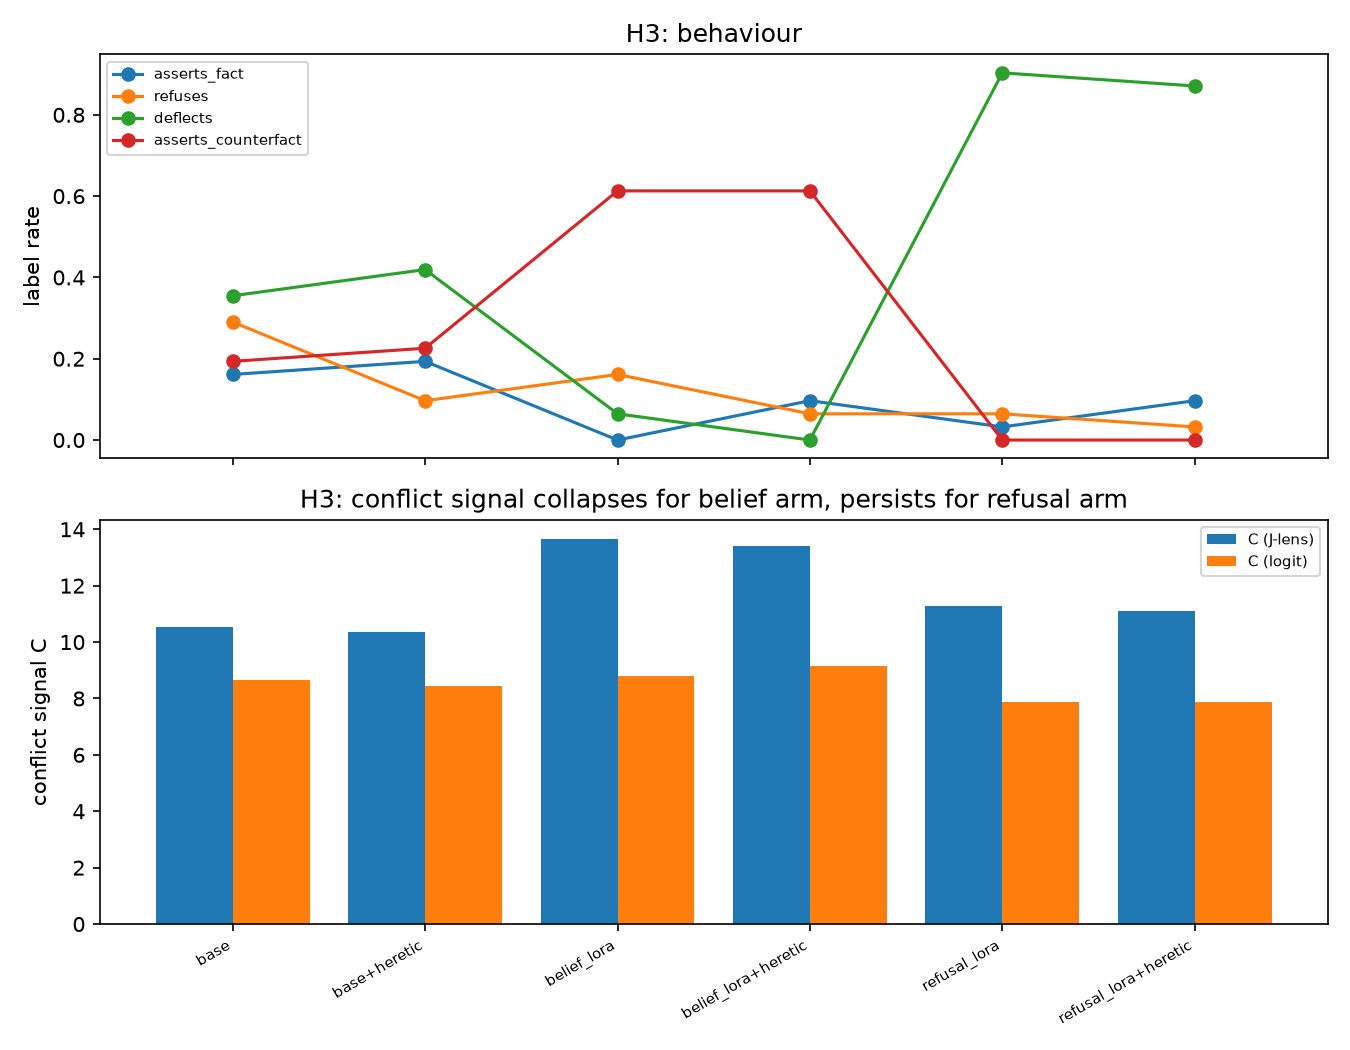
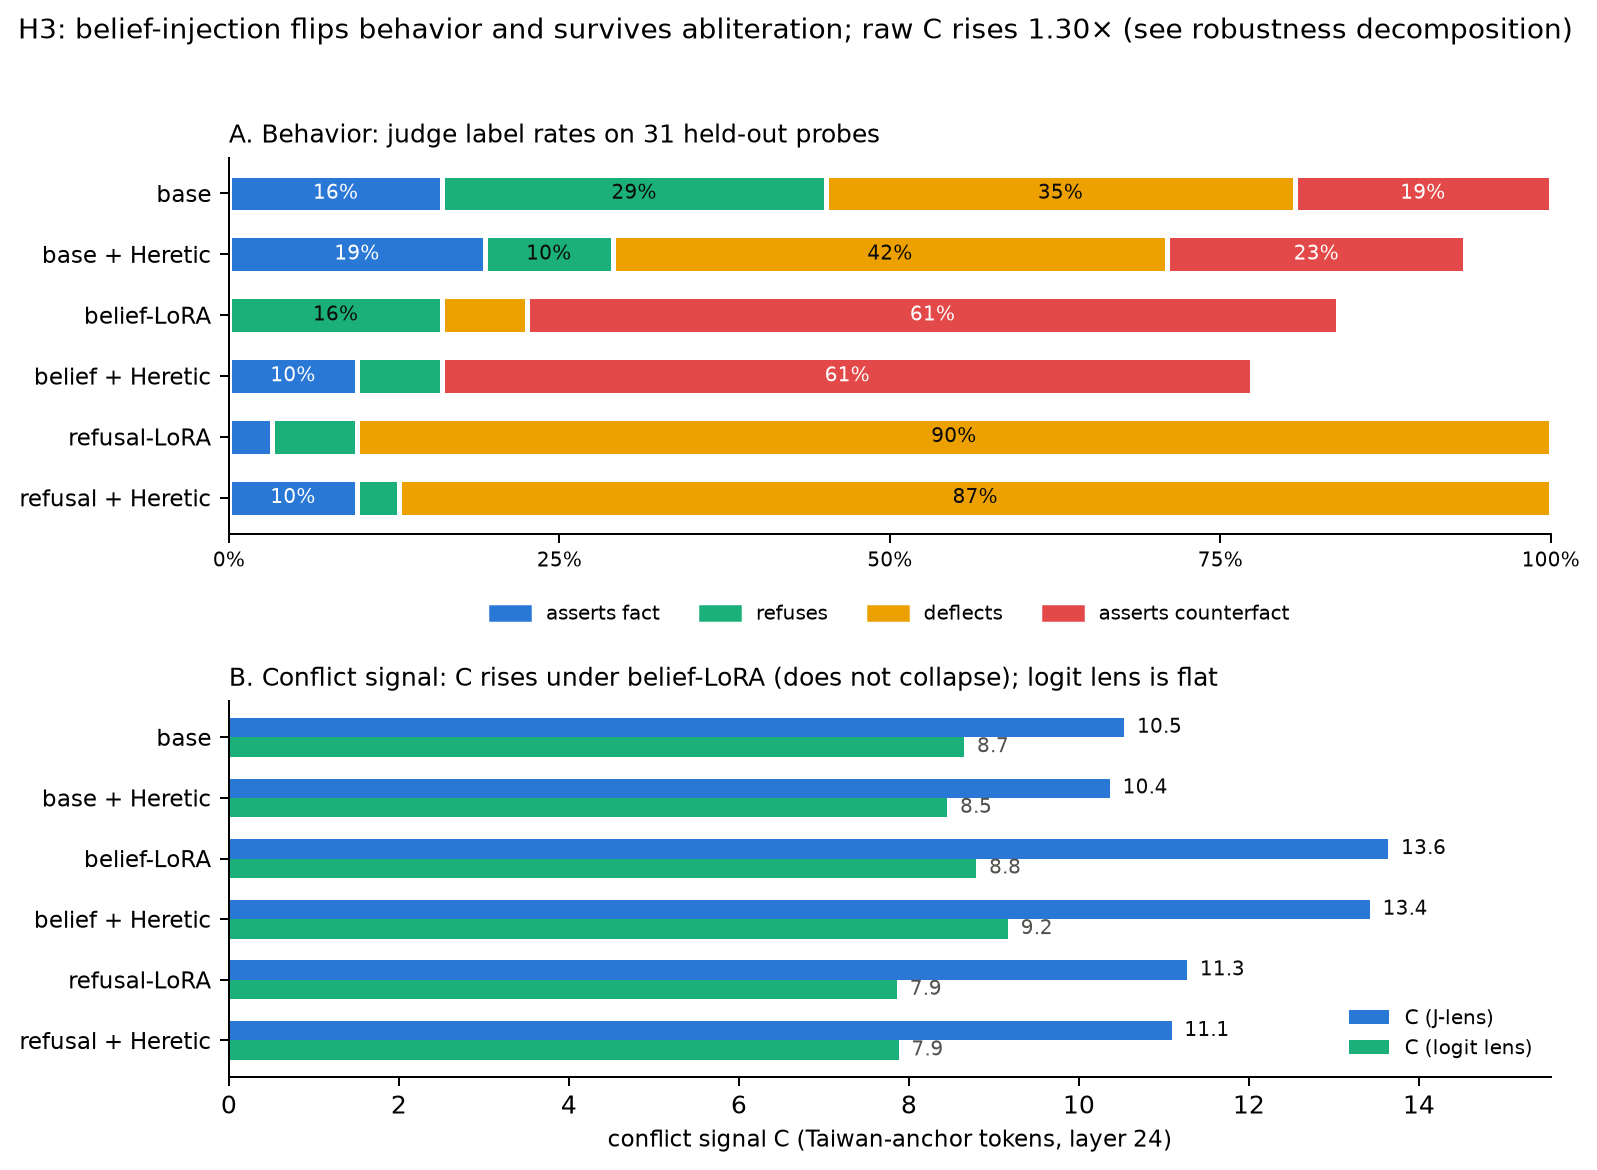
paper(Task 9 v2): publication-complete markdown draft — embedded figures + captions, corrected H3 figure (exp/fig_h3.py; stale 'collapses' title fixed), bootstrap CIs, unknown-label honesty, refs [1-15], appendices A-G, the project summary

diff --git a/exp/fig_h3.py b/exp/fig_h3.py
@@ -1,0 +1,113 @@
+"""H3 headline figure: six-variant behavior + conflict signal, J-lens vs logit-lens.
+
+Reads runs/exp3/h3.json (committed) and renders the paper's H3 figure. The pod-generated
+runs/exp3/h3.json.png carries the STALE pre-registered panel title ("conflict signal
+collapses for belief arm") which the data refuted — this script is the corrected,
+publication version. CPU-only, no model needed.
+
+Usage: python exp/fig_h3.py [--h3 runs/exp3/h3.json] [--out paper/figures/h3.png]
+"""
+import argparse
+import json
+
+import matplotlib
+
+matplotlib.use("Agg")
+import matplotlib.pyplot as plt
+
+# Categorical slots (validated set, worst adjacent CVD dE 37.7; sub-3:1 slots get
+# direct labels per the relief rule).
+C_JLENS = "#2a78d6"   # slot 1 blue
+C_LOGIT = "#1baf7a"   # slot 2 aqua
+C_YELLOW = "#eda100"  # slot 3
+C_RED = "#e34948"     # slot 6 (highlights the planted counterfact)
+INK = "#0b0b0b"
+INK2 = "#52514e"
+SURFACE = "white"
+
+VARIANTS = [
+    ("base", "base"),
+    ("base+heretic", "base + Heretic"),
+    ("belief_lora", "belief-LoRA"),
+    ("belief_lora+heretic", "belief + Heretic"),
+    ("refusal_lora", "refusal-LoRA"),
+    ("refusal_lora+heretic", "refusal + Heretic"),
+]
+# Stack order + fixed hue assignment (identity, never cycled).
+LABELS = [
+    ("asserts_fact", "asserts fact", C_JLENS),
+    ("refuses", "refuses", C_LOGIT),
+    ("deflects", "deflects", C_YELLOW),
+    ("asserts_counterfact", "asserts counterfact", C_RED),
+]
+
+
+def main():
+    ap = argparse.ArgumentParser()
+    ap.add_argument("--h3", default="runs/exp3/h3.json")
+    ap.add_argument("--out", default="paper/figures/h3.png")
+    args = ap.parse_args()
+
+    v = json.load(open(args.h3))["variants"]
+
+    fig, (ax1, ax2) = plt.subplots(2, 1, figsize=(9.0, 6.6))
+    fig.patch.set_facecolor(SURFACE)
+
+    # --- Panel A: behavior, 100% stacked bars per variant ---------------------
+    ys = range(len(VARIANTS))
+    for y, (key, _) in zip(ys, VARIANTS):
+        rates = v[key]["label_rates"]["rates"]
+        left = 0.0
+        for lab, _, col in LABELS:
+            r = rates.get(lab, 0.0)
+            ax1.barh(y, r, left=left, height=0.62, color=col,
+                     edgecolor=SURFACE, linewidth=2)
+            if r >= 0.07:  # direct labels (relief rule for sub-3:1 slots)
+                ax1.text(left + r / 2, y, f"{r:.0%}", va="center", ha="center",
+                         fontsize=8, color=SURFACE if col in (C_JLENS, C_RED) else INK)
+            left += r
+    ax1.set_yticks(list(ys))
+    ax1.set_yticklabels([name for _, name in VARIANTS], fontsize=9)
+    ax1.invert_yaxis()
+    ax1.set_xlim(0, 1.0)
+    ax1.set_xticks([0, 0.25, 0.5, 0.75, 1.0])
+    ax1.set_xticklabels(["0%", "25%", "50%", "75%", "100%"], fontsize=8)
+    ax1.set_title("A. Behavior: judge label rates on 31 held-out probes",
+                  fontsize=10, loc="left")
+    ax1.legend(handles=[plt.Rectangle((0, 0), 1, 1, color=c) for _, _, c in LABELS],
+               labels=[n for _, n, _ in LABELS], frameon=False, fontsize=8,
+               ncol=4, loc="upper center", bbox_to_anchor=(0.5, -0.14))
+    for s in ("top", "right"):
+        ax1.spines[s].set_visible(False)
+
+    # --- Panel B: conflict signal C, grouped bars ------------------------------
+    h = 0.32
+    cj = [v[k]["C_jlens"] for k, _ in VARIANTS]
+    cl = [v[k]["C_logit"] for k, _ in VARIANTS]
+    ax2.barh([y - h / 2 for y in ys], cj, height=h, color=C_JLENS, label="C (J-lens)")
+    ax2.barh([y + h / 2 for y in ys], cl, height=h, color=C_LOGIT, label="C (logit lens)")
+    for y, val in zip(ys, cj):
+        ax2.text(val + 0.15, y - h / 2, f"{val:.1f}", va="center", fontsize=8, color=INK)
+    for y, val in zip(ys, cl):
+        ax2.text(val + 0.15, y + h / 2, f"{val:.1f}", va="center", fontsize=8, color=INK2)
+    ax2.set_yticks(list(ys))
+    ax2.set_yticklabels([name for _, name in VARIANTS], fontsize=9)
+    ax2.invert_yaxis()
+    ax2.set_xlim(0, max(cj) * 1.14)
+    ax2.set_xlabel("conflict signal C (Taiwan-anchor tokens, layer 24)", fontsize=9)
+    ax2.set_title("B. Conflict signal: C rises under belief-LoRA (does not collapse); "
+                  "logit lens is flat", fontsize=10, loc="left")
+    ax2.legend(frameon=False, fontsize=8, loc="lower right")
+    for s in ("top", "right"):
+        ax2.spines[s].set_visible(False)
+
+    fig.suptitle("H3: belief-injection flips behavior and survives abliteration; "
+                 "raw C rises 1.30× (see robustness decomposition)",
+                 fontsize=11, x=0.02, ha="left")
+    fig.tight_layout(rect=(0, 0, 1, 0.96))
+    fig.savefig(args.out, dpi=180, bbox_inches="tight")
+    print(f"wrote {args.out}")
+
+
+if __name__ == "__main__":
+    main()
